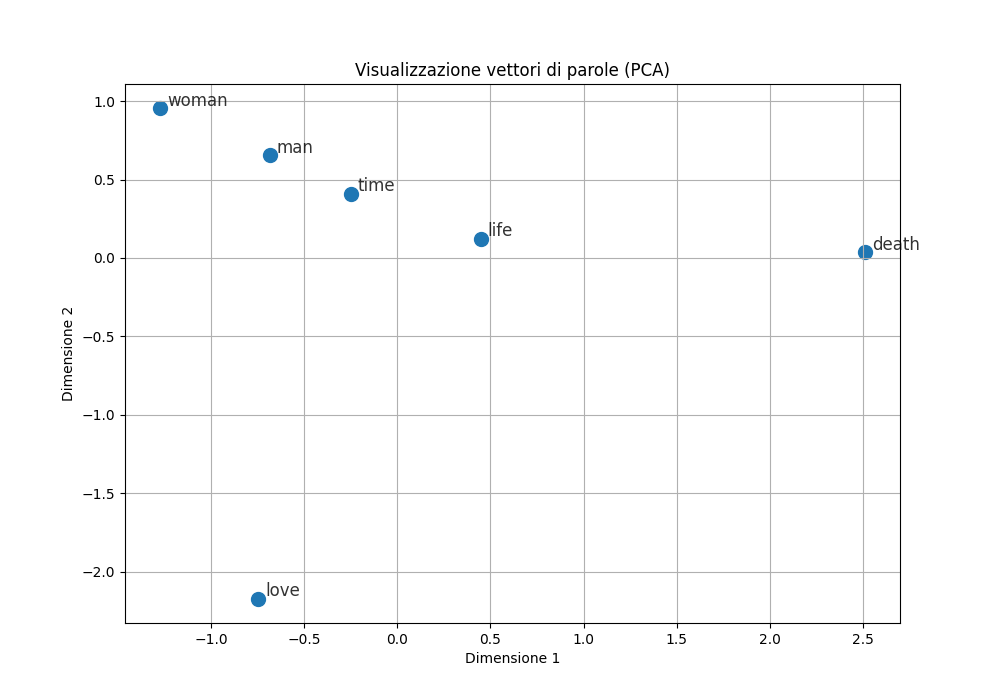
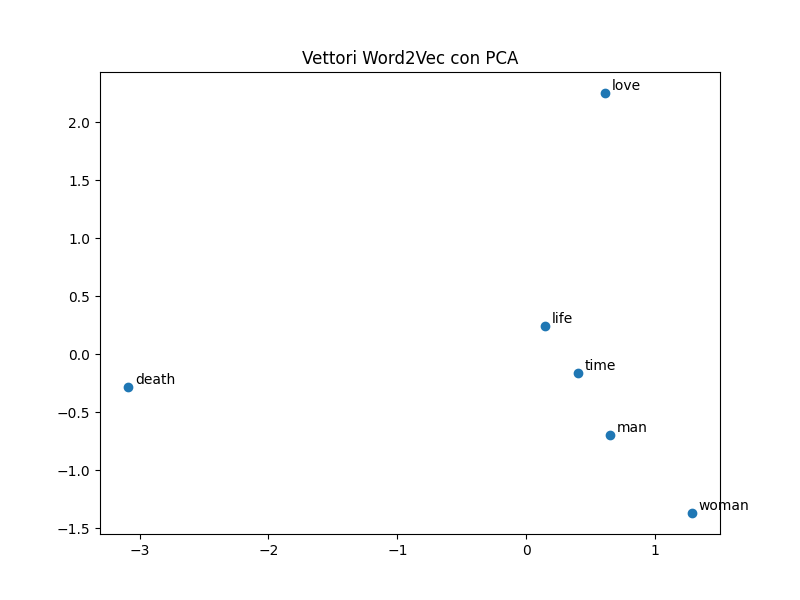
Last changes

diff --git a/script.py b/script.py
@@ -27,33 +27,15 @@ def visualize_vectors(model, words, save_path):
     
 def explore_model(model, words_to_explore):
     for word in words_to_explore:
-        if word in model.wv:
-            print(f"Parole più simili a '{word}':")
-            similar_words = model.wv.most_similar(word, topn=5)
-            for similar_word, similarity in similar_words:
-                print(f"  {similar_word}: {similarity:.4f}")
+        
+        print(f"Parole più simili a '{word}':")
+        similar_words = model.wv.most_similar(word, topn=5)
+        for similar_word, similarity in similar_words:
+            print(f"  {similar_word}: {similarity:.4f}")
         
     return [w for w in words_to_explore if w in model.wv]
 
-def cluster_words(model, words_to_cluster, n_clusters=3):
-    """
-    Cluster a list of words using KMeans based on their Word2Vec representations.
-    """
-    # Check if words are in the vocabulary (case insensitive)
-    vectors = []
-    valid_words = []
-    missing_words = []
-    
-    for word in words_to_cluster:
-        word_lower = word.lower()
-        if word_lower in model.wv:
-            vectors.append(model.wv[word_lower])
-            valid_words.append(word_lower)
-        else:
-            missing_words.append(word)
-    
-    if missing_words:
-        print(f"Parole non trovate nel vocabolario: {missing_words}")
+def cluster_words(vectors, n_clusters=3):
     
     if len(vectors) < n_clusters:
         if len(vectors) < 2:
@@ -66,7 +48,7 @@ def cluster_words(model, words_to_cluster, n_clusters=3):
     kmeans = KMeans(n_clusters=n_clusters, random_state=42)
     labels = kmeans.fit_predict(vectors)
     
-    return valid_words, vectors, labels
+    return labels
 
 def visualize_clusters(valid_words, vectors, labels, title, save_path=None):
     pca = PCA(n_components=2)
@@ -106,8 +88,21 @@ if __name__ == "__main__":
     else:
         words_to_explore = default_words
         print(f"Uso parole predefinite: {', '.join(default_words)}")
+    valid_words = []
+    missing_words = []
+    vectors = []
+    for word in words_to_explore:
+        word_lower = word.lower()
+        if word_lower in model.wv:
+            vectors.append(model.wv[word_lower])
+            valid_words.append(word_lower)
+        else:
+            missing_words.append(word)
     
-    valid_words = explore_model(model, words_to_explore)
+    if missing_words:
+        print(f"Parole non trovate nel vocabolario: {missing_words}")
+
+    valid_words = explore_model(model, valid_words)
     
     print("Visualizzazione vettori")
     visualize_vectors(model, valid_words, save_path="word_vectors_pca.png")
@@ -130,7 +125,7 @@ if __name__ == "__main__":
     n_clusters = int(input("Inserisci il numero di cluster (predefinito: 3): ") or 3)
     
     # valid_words, vectors, labels = cluster_words(model, words_to_cluster, n_clusters)
-    valid_words, vectors, labels = cluster_words(model, valid_words, n_clusters)
+    labels = cluster_words(vectors, n_clusters)
     
     visualize_clusters(
         valid_words, vectors, labels,

diff --git a/train_model.py b/train_model.py
@@ -11,20 +11,23 @@ from gensim.models import Word2Vec
 
 def preprocess_text(raw_text):
     text = raw_text.lower()
+    #per normalizzare lettere accentate
     text = unicodedata.normalize("NFKD", text)
     
     raw_sentences = re.split(r'(?<=[.!?])\s+', text)
     
     processed_sentences = []
     for sentence in raw_sentences:
+        #rimuove simboli speciali
         sentence = re.sub(r"[^\w\s']", " ", sentence)
         words = word_tokenize(sentence)
-
+        #Rimuove underscore
         words = [word.strip('_') for word in words] 
 
         stop_words = set(stopwords.words("english"))
+        #rimuove stopword e parole più corte di 2
         words = [word for word in words if word not in stop_words and len(word) > 2]
-        
+        #se la frase ha men o di 3 parole la esclude, altrimenti non ho contesto
         if len(words) > 3:  
             processed_sentences.append(words)
     
